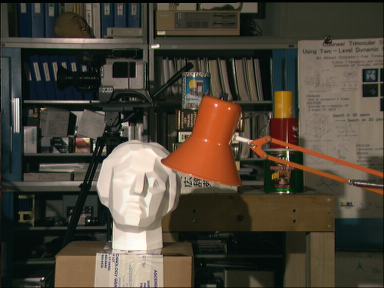
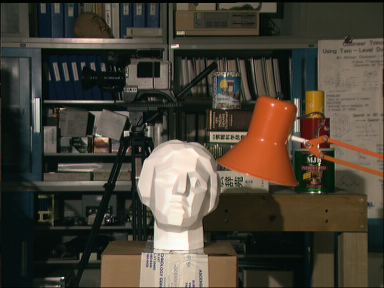
MW

diff --git a/LibThunderVision/src/tdvision/captureproc.cpp b/LibThunderVision/src/tdvision/captureproc.cpp
@@ -4,17 +4,17 @@
 #include <boost/system/error_code.hpp>
 #include <tdvbasic/exception.hpp>
 #include <tdvbasic/util.hpp>
+#include "tmpbufferimage.hpp"
 #include "captureproc.hpp"
-
-#include <iostream>
 
 TDV_NAMESPACE_BEGIN
 
-Capture::Capture()
+Capture::Capture(bool invert)
     : m_resizeTmp(CV_8UC3)
 {
     m_capture = NULL;
     m_fps = 30;
+    m_invert = invert;
 }
 
 void Capture::init(const std::string &filename)
@@ -38,6 +38,26 @@ void Capture::init(int capDevice)
     }    
 }
 
+static void InvertImage(const CvMat *src, CvMat *dst)
+{    
+    for (size_t row=0; row<static_cast<size_t>(src->rows); row++)
+    {
+        const uchar *scolorPtr = src->data.ptr + row*src->step;
+        uchar *dcolorPtr = dst->data.ptr + (src->rows - row - 1)*dst->step;
+        
+        for (size_t col=0; col<static_cast<size_t>(src->cols); col++)
+        {            
+            const uchar *scolorBase = scolorPtr + col*3;
+            uchar *dcolorBase = dcolorPtr + (src->cols - col - 1)*3;
+            
+            for (size_t k=0; k<3; k++)
+            {
+                dcolorBase[k] = scolorBase[k];
+            }
+        }
+    }
+}
+
 void Capture::update()
 {
     if ( m_updateCount.countPerSecsNow() > m_fps )
@@ -48,21 +68,25 @@ void Capture::update()
 
     m_updateCount.count();
 
+    TmpBufferImage btmp(CV_8UC3);
+    
     if ( frame != NULL )
     {
-#if 0 
-        CvMat *rmat = m_resizeTmp.getImage(
-            util::nearestPowerOf2(frame->height),
-            util::nearestPowerOf2(frame->width));
-        cvResize(frame, rmat, CV_INTER_CUBIC);
-
-        CvMat *mat = cvCreateMat(rmat->height, rmat->width, CV_8UC3);
-        cvConvertImage(rmat, mat, CV_CVTIMG_SWAP_RB);
-#else
         CvMat *mat = cvCreateMat(frame->height, frame->width, CV_8UC3);
-        cvConvertImage(frame, mat, CV_CVTIMG_SWAP_RB);
-#endif
-        m_wpipe.write(mat);
+        if ( m_invert )
+        {
+            CvMat *tmp = btmp.getImage(frame->width, frame->height);        
+            
+            cvConvertImage(frame, tmp, CV_CVTIMG_SWAP_RB);
+            InvertImage(tmp, mat);            
+        }
+        else
+        {
+            
+            cvConvertImage(frame, mat, CV_CVTIMG_SWAP_RB);
+        }
+        
+        m_wpipe.write(mat);                                          
     }
 }
 
@@ -76,7 +100,8 @@ void Capture::dispose()
     }
 }
 
-CaptureProc::CaptureProc()
+CaptureProc::CaptureProc(bool invert)
+    : m_capture(invert)
 {
     m_endCapture = false;
 }

diff --git a/LibThunderVision/tests/stereotest.cpp b/LibThunderVision/tests/stereotest.cpp
@@ -12,7 +12,7 @@ void runStereoTest(
     const std::string &outputImg, 
     tdv::MatchingCost *mcost, 
     tdv::Optimizer *opt,
-    bool medianFilter)
+    bool medianFilter, bool endMedianFilter)
 {
     tdv::ImageReader readerL(leftImg);
     tdv::ImageReader readerR(rightImg);
@@ -21,7 +21,7 @@ void runStereoTest(
     tdv::RGBConv rconv;
     
     tdv::ImageWriter writer(outputImg);    
-    tdv::MedianFilterCPU mdFilterL, mdFilterR;
+    tdv::MedianFilterCPU mdFilterL, mdFilterR, mdFinal;
     
     fconvl.input(readerL.output());
     fconvr.input(readerR.output());
@@ -38,8 +38,18 @@ void runStereoTest(
     }   
     
     opt->input(mcost->output());    
-    rconv.input(opt->output());
-    writer.input(rconv.output());
+
+    if ( endMedianFilter )
+    {
+        mdFinal.input(opt->output());     
+        rconv.input(mdFinal.output());
+    }
+    else
+    {
+        rconv.input(opt->output());
+    }
+    
+    writer.input(rconv.output());    
     
     readerL.update();
     readerR.update();
@@ -54,6 +64,11 @@ void runStereoTest(
     
     mcost->update();
     opt->update();
+    if ( endMedianFilter )
+    {
+        mdFinal.update();
+    }
     rconv.update();
-    writer.update();    
+    
+    writer.update();        
 }

diff --git a/LibThunderVision/tests/testsemiglobal.cpp b/LibThunderVision/tests/testsemiglobal.cpp
@@ -9,20 +9,25 @@
 #if 1
 TEST(TestSemiGlobalDev, WithSSD)
 {
-    tdv::SSDDev ssd(64);
+    //tdv::SSDDev ssd(64);
+    tdv::BirchfieldCostDev ssd(64);
     tdv::SemiGlobalDev sg;
 
    runStereoTest(
-#if 0
+#if 1
        "../../res/tsukuba512_L.png",
        "../../res/tsukuba512_R.png",
        "tsukuba_ssdsgdev.png",
-#else
+#elif 0
        "q_left.png",
        "q_right.png",
        "q_ssdsgdev.png",
+#else
+       "lt2.png",
+       "rt2.png",
+       "rt2_dev.png",
 #endif
-       &ssd, &sg, true);
+       &ssd, &sg, true, true);
 
 }
 #endif

diff --git a/LibThunderVision/src/tdvision/captureproc.hpp b/LibThunderVision/src/tdvision/captureproc.hpp
@@ -15,7 +15,7 @@ TDV_NAMESPACE_BEGIN
 class Capture
 {
 public:
-    Capture();
+    Capture(bool invert=false);
     
     void init(const std::string  &filename);
     
@@ -42,13 +42,15 @@ private:
     float m_fps;
     
     UpdateCount m_updateCount;
+    
+    bool m_invert;
 };
 
 
 class CaptureProc: public Process
 {
 public:    
-    CaptureProc();
+    CaptureProc(bool invert=false);
     
     void init(const std::string  &filename)
     {

diff --git a/LibThunderVision/tests/testbirchfieldcost.cpp b/LibThunderVision/tests/testbirchfieldcost.cpp
@@ -10,8 +10,11 @@ TEST(TestBirchfieldCost, WithWTA)
     tdv::BirchfieldCostDev bf(128);
     tdv::WTADev wta;
     runStereoTest(
-        "../../res/tsukuba512_L.png",
-        "../../res/tsukuba512_R.png",
+        //"../../res/tsukuba512_L.png",
+        //"../../res/tsukuba512_R.png",
+
+        "tsukuba_L.png",
+        "tsukuba_R.png",
         "tsukuba_birchfieldwta.png", &bf, &wta);    
 }
 

diff --git a/LibThunderVision/src/tdvision/tdvcontext.cpp b/LibThunderVision/src/tdvision/tdvcontext.cpp
@@ -85,7 +85,7 @@ Reconstruction* TDVContext::runReconstruction(const std::string &profileName,
     if ( profileName == "Device" )
     {
         matcherFactory.computeDev(CommonStereoMatcherFactory::Device);
-        matcherFactory.maxDisparity(300);
+        matcherFactory.maxDisparity(128);
 
         matcherFactory.matchingCost(
             CommonStereoMatcherFactory::BirchfieldTomasi);

diff --git a/LibThunderVision/tests/testssddev.cpp b/LibThunderVision/tests/testssddev.cpp
@@ -42,9 +42,11 @@ TEST(TestSSD, WithWTA)
    tdv::WTADev wta;
     
    runStereoTest(
-       "../../res/tsukuba512_L.png",
-       "../../res/tsukuba512_R.png",
-       "tsukuba_ssdwta.png",
+       //"../../res/tsukuba512_L.png",
+       //"../../res/tsukuba512_R.png",       
+        "tsukuba_L.png",
+        "tsukuba_R.png",
+        "tsukuba_ssdwta.png",
        &ssd, &wta);
 
 }

diff --git a/LibThunderVision/tests/stereotest.hpp b/LibThunderVision/tests/stereotest.hpp
@@ -11,7 +11,7 @@ void runStereoTest(
     const std::string &outputImg, 
     tdv::MatchingCost *mcost, 
     tdv::Optimizer *opt,
-    bool medianFilter = false);
+    bool medianFilter = false, bool endMedianFilter = false);
 
 
 #endif /* TDV_STEREOTEST_HPP */

diff --git a/LibThunderVision/src/tdvision/capturestereoinputsource.cpp b/LibThunderVision/src/tdvision/capturestereoinputsource.cpp
@@ -3,6 +3,7 @@
 TDV_NAMESPACE_BEGIN
 
 CaptureStereoInputSource::CaptureStereoInputSource()
+//: m_capture2(true)
 {
     m_procs[0] = this;
     m_procs[1] = NULL;    
